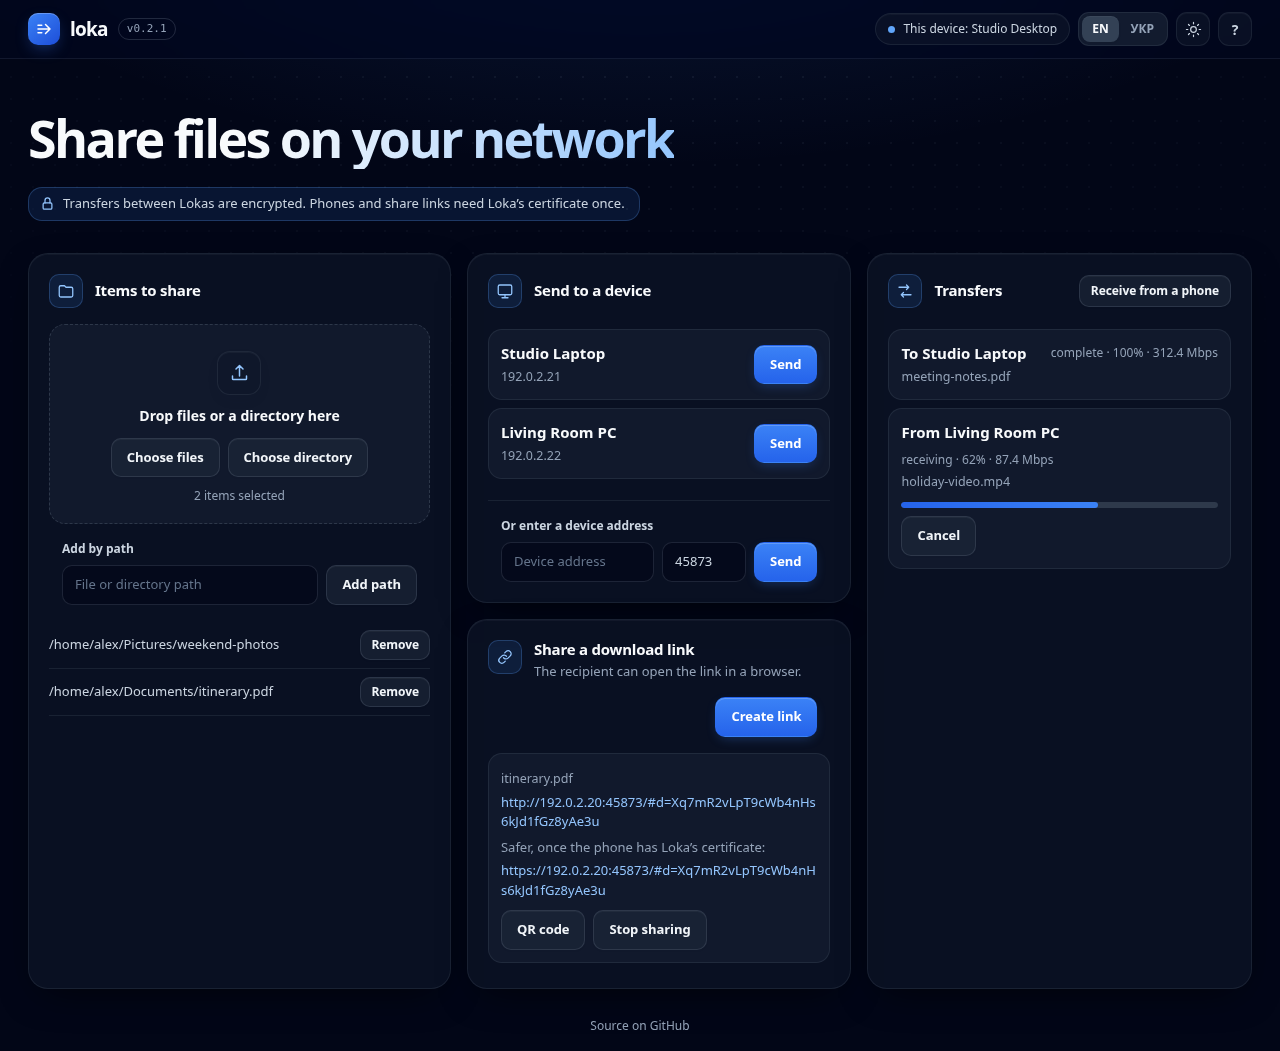
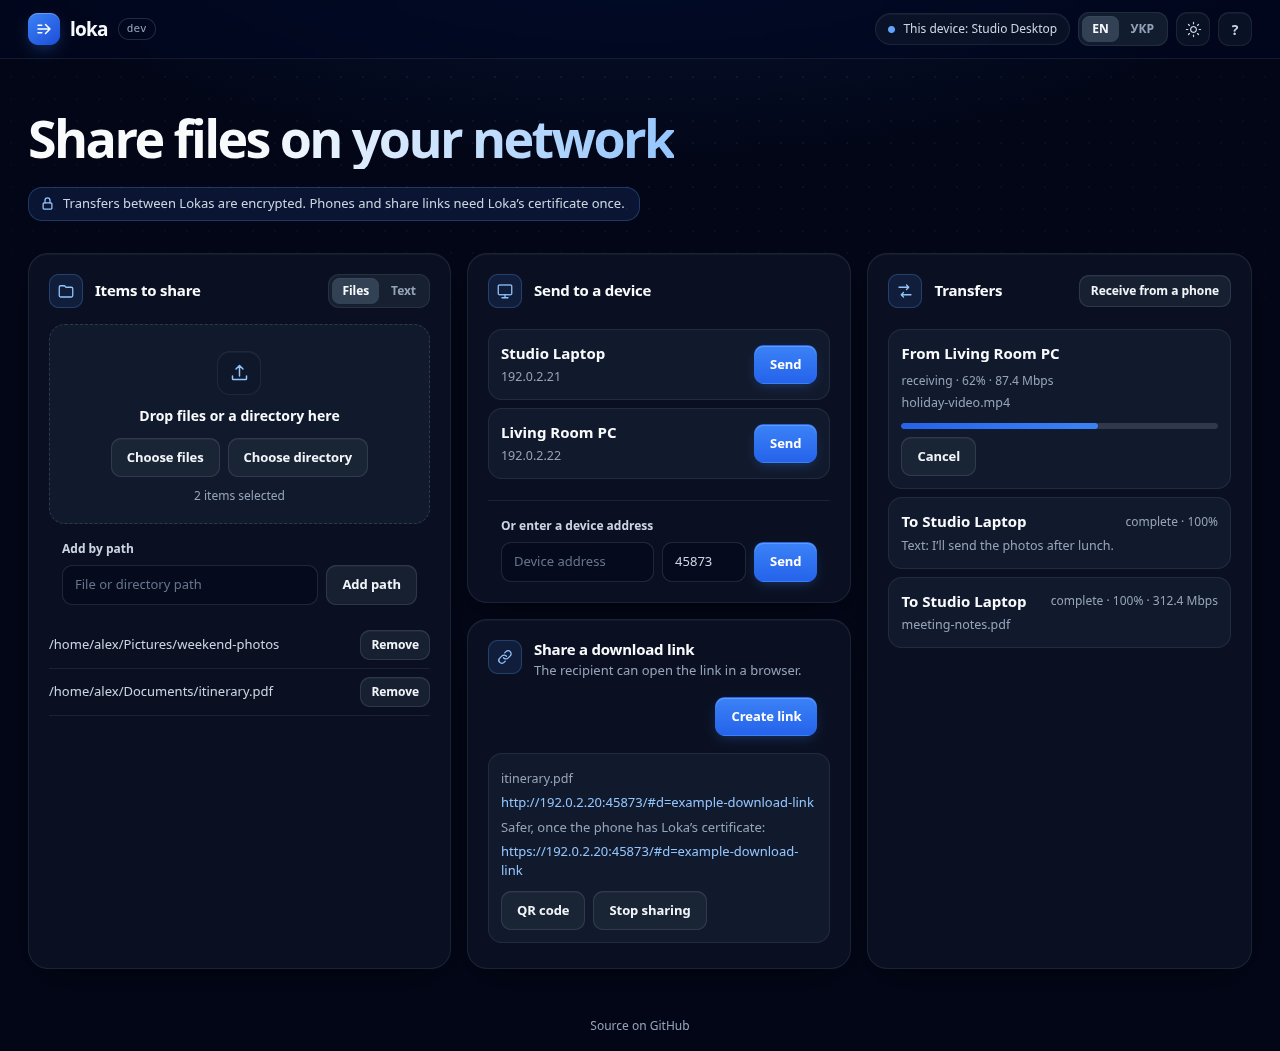
docs(readme): refresh light and dark screenshots
Show the current sharing controls and example transfers in both themes.
Use the browser color preference to choose the screenshot.

Changed region(s): [[0.6875, 0.3349, 0.9375, 0.6089], [0.375, 0.7612, 0.625, 0.9134], [0.25, 0.2436, 0.3438, 0.3045]]

diff --git a/README.md b/README.md
@@ -17,7 +17,10 @@ finds computers running Loka on the same network. It encrypts transfers
 and sends them directly between devices, even when the internet is down.
 You don't need an account.
 
-![Loka showing selected files, devices on the network, transfers and a download link](docs/loka.png)
+<picture>
+  <source media="(prefers-color-scheme: dark)" srcset="docs/loka.png">
+  <img src="docs/loka-light.png" alt="Loka showing selected files, nearby devices, file and text transfers, and a download link">
+</picture>
 
 ## Install
 
